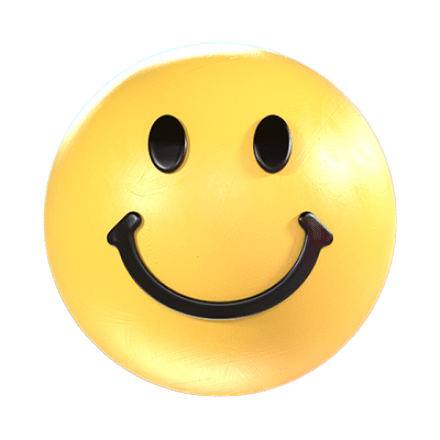
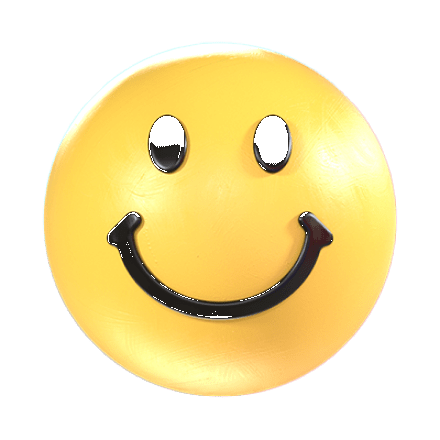
fix(frontend): route missing pages to /404 and fix smiley visibility
EOF

diff --git a/frontend/src/app/routes.jsx b/frontend/src/app/routes.jsx
@@ -123,8 +123,9 @@ export function GuestRoutes() {
       <Route path="/:username/video/:publicId" element={<PublicVideoDetailPage />} />
       <Route path="/:username/:publicId" element={<ProfileWatchVideoRoutePage />} />
       <Route path="/profile" element={<RedirectToHomeLogin />} />
+      <Route path="/404" element={<NotFoundPage />} />
       <Route path="/:username" element={<ProfilePage />} />
-      <Route path="*" element={<NotFoundPage />} />
+      <Route path="*" element={<Navigate to="/404" replace />} />
     </Routes>
     <GuestAuthModal />
     </GuestAuthUiProvider>
@@ -299,9 +300,10 @@ export function AuthenticatedRoutes({ user, isAdmin }) {
       <Route path="/:username/video/:publicId" element={<PublicVideoDetailPage />} />
       <Route path="/:username/:publicId" element={<ProfileWatchVideoRoutePage />} />
       <Route path="/profile" element={<ProfilePage />} />
+      <Route path="/404" element={<NotFoundPage />} />
       <Route path="/:username" element={<ProfilePage />} />
       <Route path="/watch/:publicId" element={<WatchRedirect />} />
-      <Route path="*" element={<NotFoundPage />} />
+      <Route path="*" element={<Navigate to="/404" replace />} />
     </Routes>
   )
 }

diff --git a/frontend/src/features/profile/pages/ProfilePage.jsx b/frontend/src/features/profile/pages/ProfilePage.jsx
@@ -498,6 +498,15 @@ export function ProfilePage() {
         })
         .catch((error) => {
           if (!isMounted) return
+          const code = String(error?.code || '')
+          const isMissingUser =
+            error?.status === 404 ||
+            code === 'USER_NOT_FOUND' ||
+            code === 'NOT_FOUND'
+          if (isMissingUser) {
+            navigate('/404', { replace: true })
+            return
+          }
           setPublicProfile(null)
           setStatus(error.message)
         })
@@ -514,7 +523,7 @@ export function ProfilePage() {
       .then(() => setStatus(t('profileChrome.profileLoaded')))
       .catch((error) => setStatus(error.message))
     return undefined
-  }, [token, refreshProfile, username, authReady])
+  }, [token, refreshProfile, username, authReady, navigate, t])
 
   // Đếm lượt xem hồ sơ (Studio analytics) — không đếm khi xem hồ sơ của chính mình
   useEffect(() => {

diff --git a/frontend/src/index.css b/frontend/src/index.css
@@ -1027,8 +1027,6 @@ html[data-vibely-theme="light"] .vibely-support-page [role="menu"] button.rounde
   width: clamp(5.75rem, 22vw, 10.5rem);
   height: clamp(5.75rem, 22vw, 10.5rem);
   object-fit: contain;
-  /* PNG has a black plate — lift yellow face onto the light hero */
-  mix-blend-mode: lighten;
   transform: translateY(0.06em);
   animation: not-found-smiley-in 700ms cubic-bezier(0.22, 1, 0.36, 1) both;
 }
